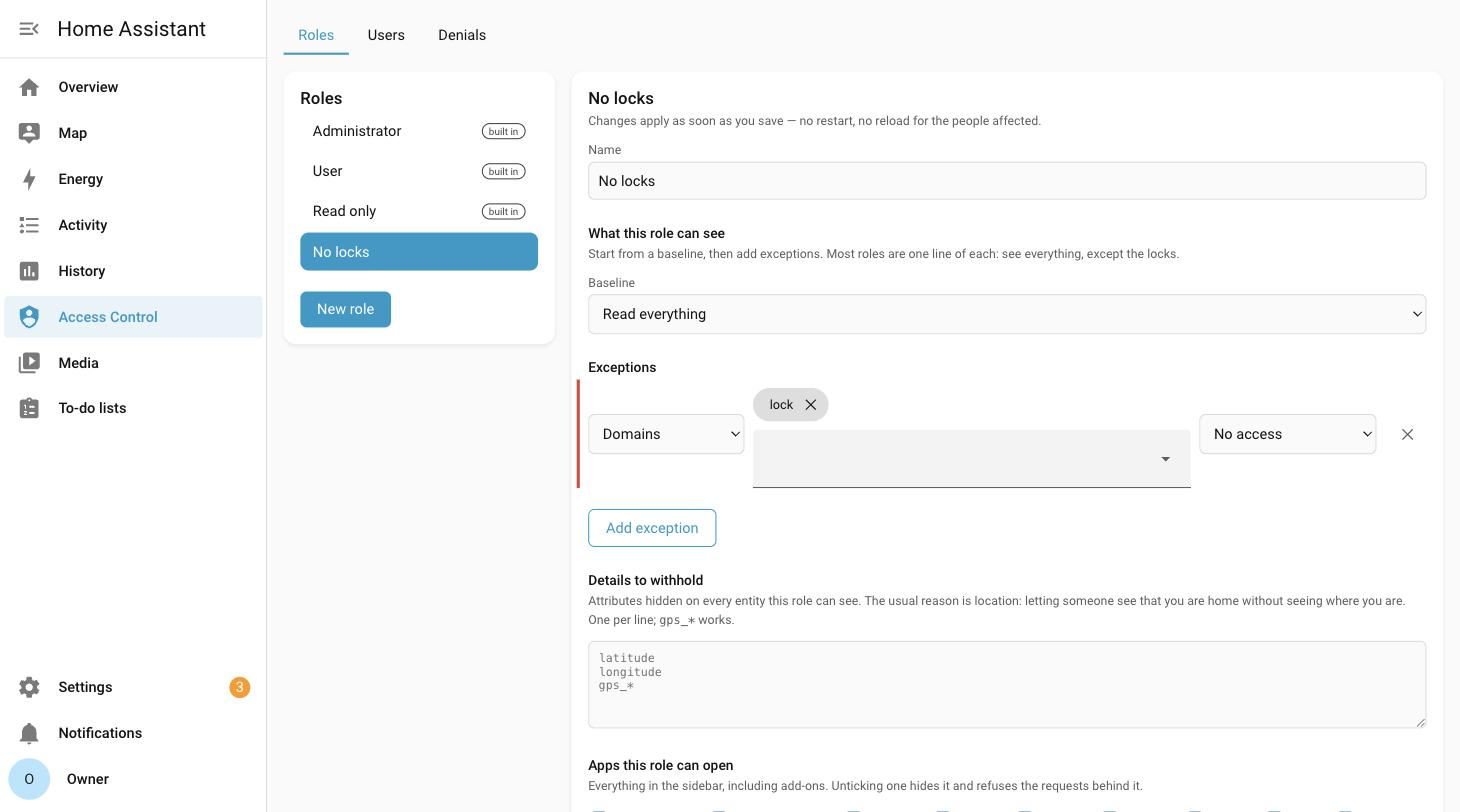
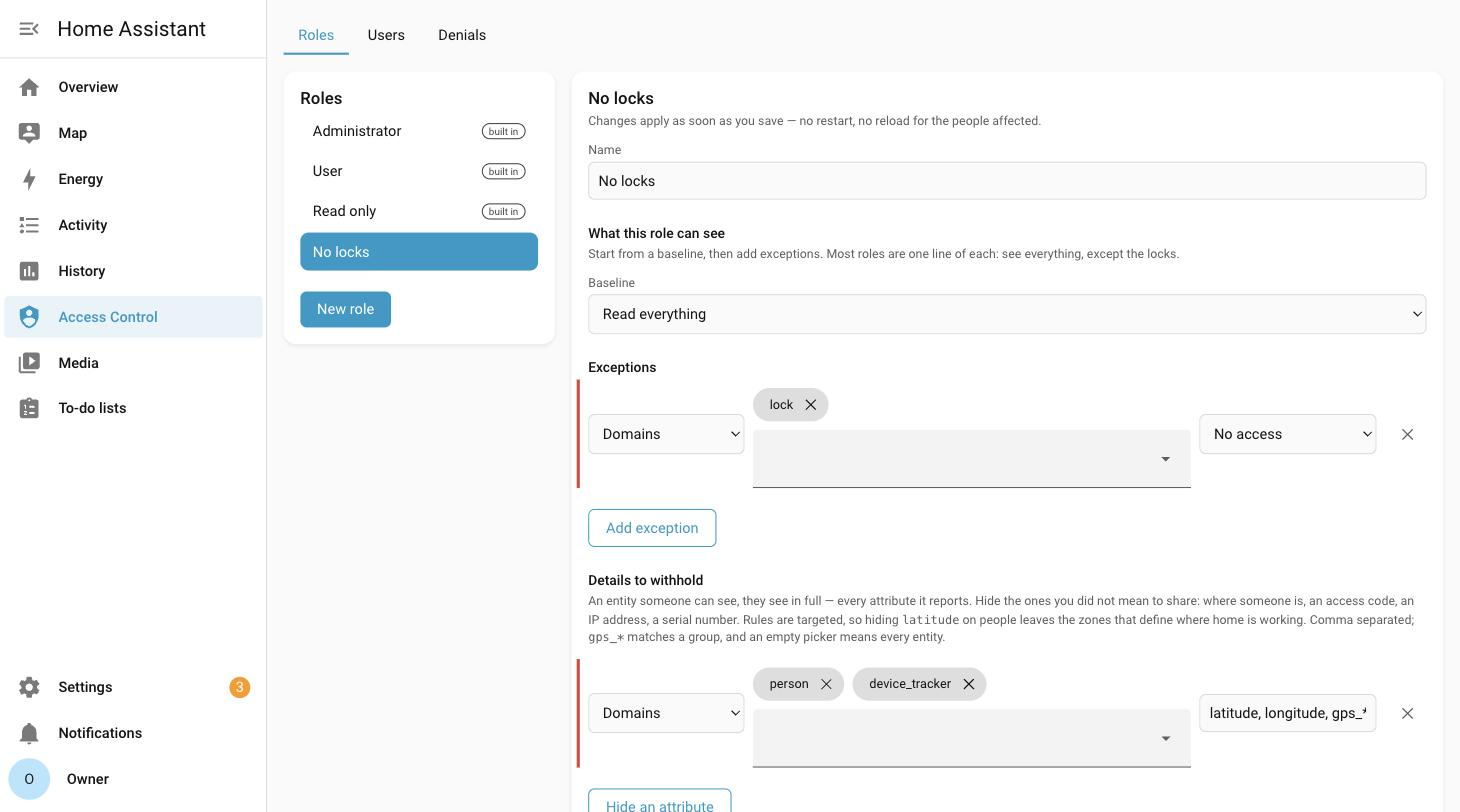
Retake the roles screenshot for targeted attribute rules
The old one showed attributes as a single list applied to everything, which is
no longer how it works. Replaced with a role carrying both an entity exception
and an attribute rule scoped to people and trackers.

Claude-Session: https://claude.ai/code/session_01NnbK5vZZkY4MaMfJFifmG8

Changed region(s): [[0.4007, 0.7389, 0.9863, 0.8929], [0.4007, 0.9236, 0.7705, 1.0], [0.8322, 0.8621, 0.9247, 0.8929]]

diff --git a/README.md b/README.md
@@ -134,7 +134,7 @@ see what and why.
 <tr>
 <td width="50%">
 <img src="screenshots/panel-roles.jpg" alt="The role editor">
-<p align="center"><em>"Read everything, except the locks — and never their location." One role, all three axes.</em></p>
+<p align="center"><em>"Read everything, except the locks. And don't show me where anyone is." Every rule picks what it applies to.</em></p>
 </td>
 <td width="50%">
 <img src="screenshots/panel-denials.jpg" alt="The denials log">
